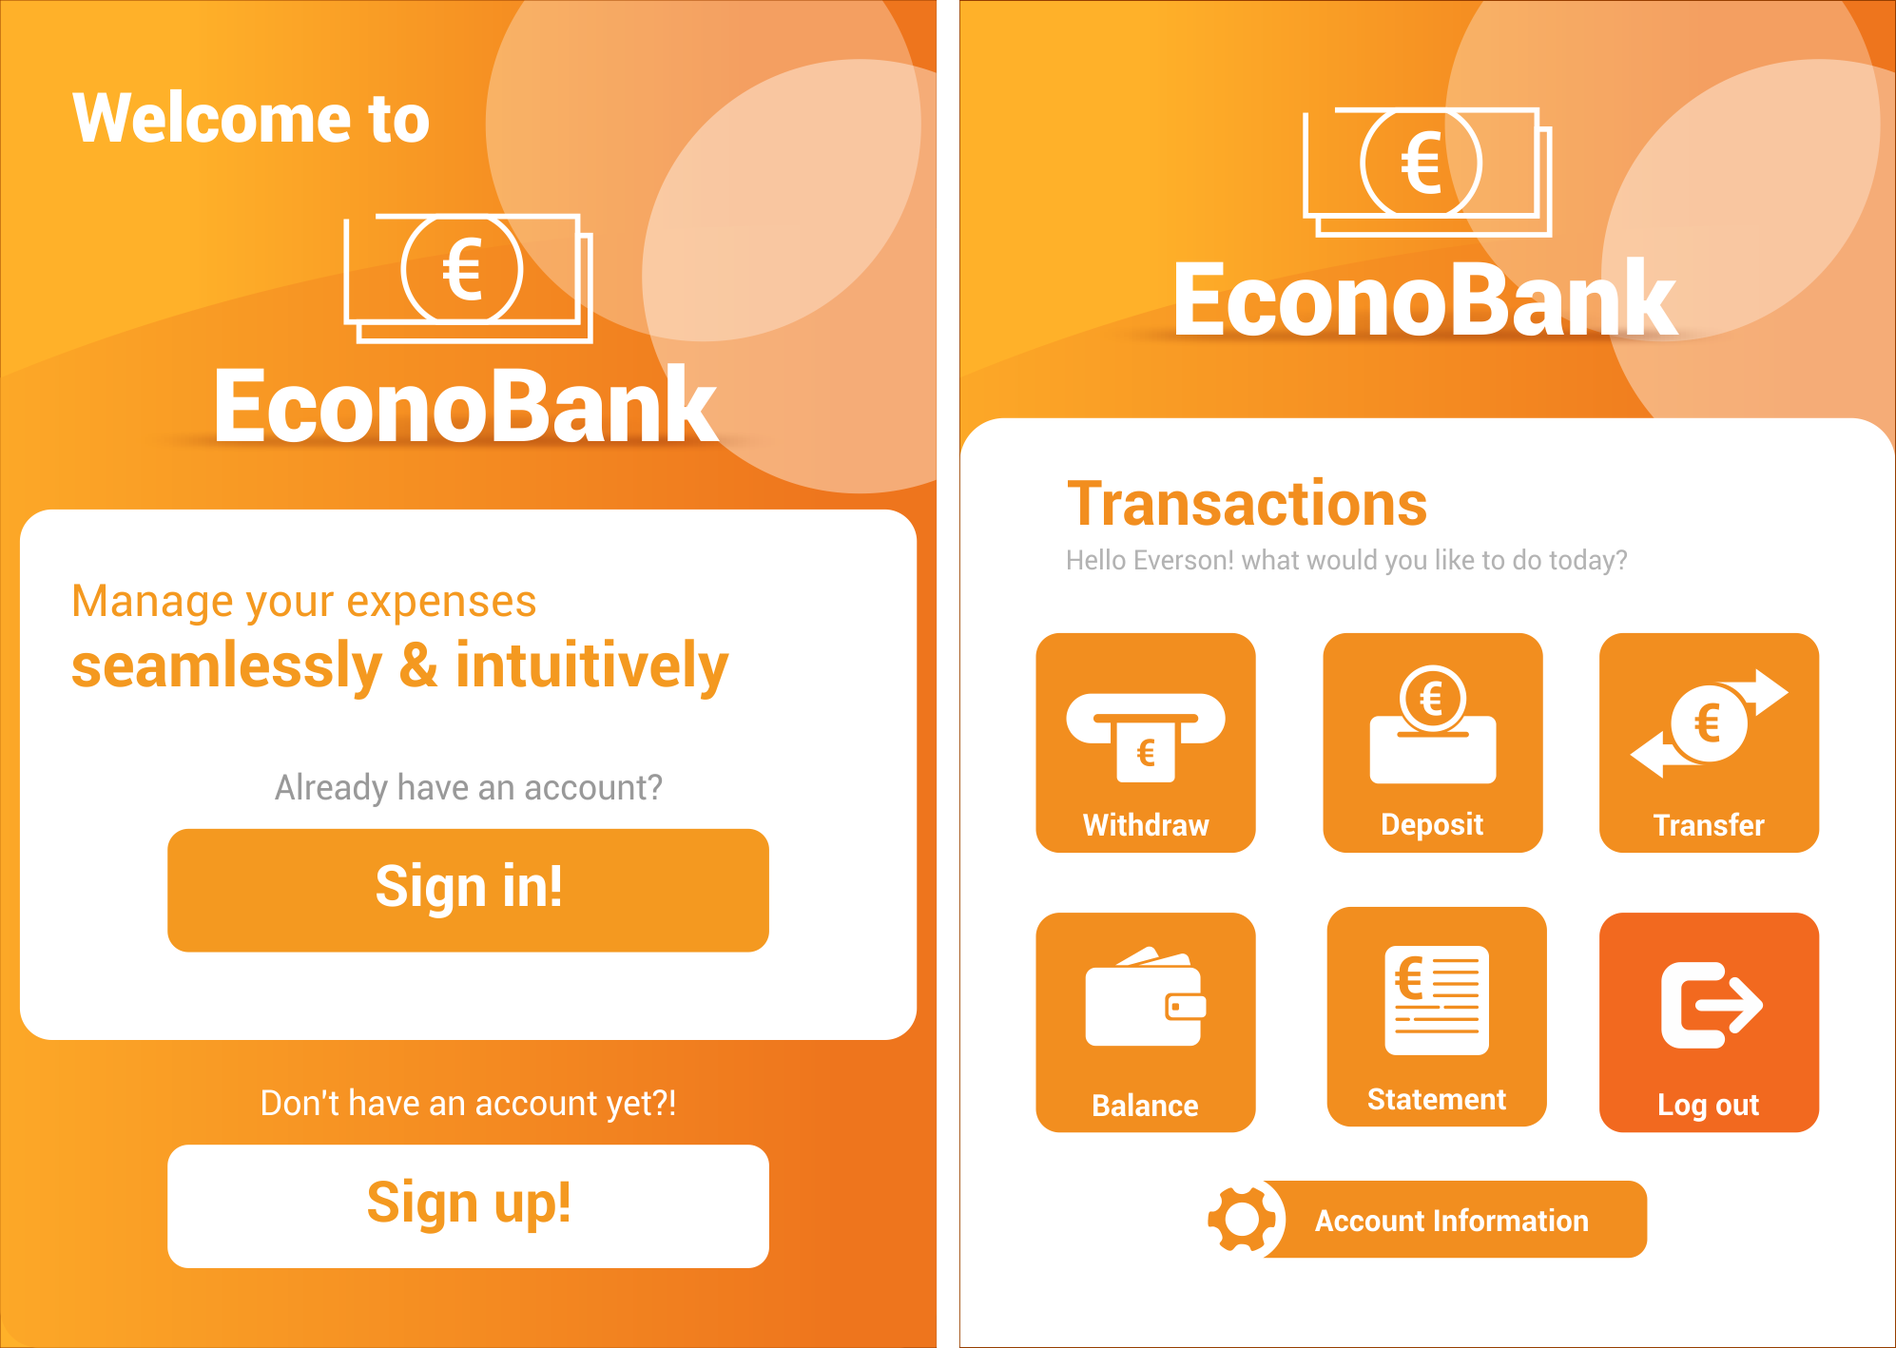
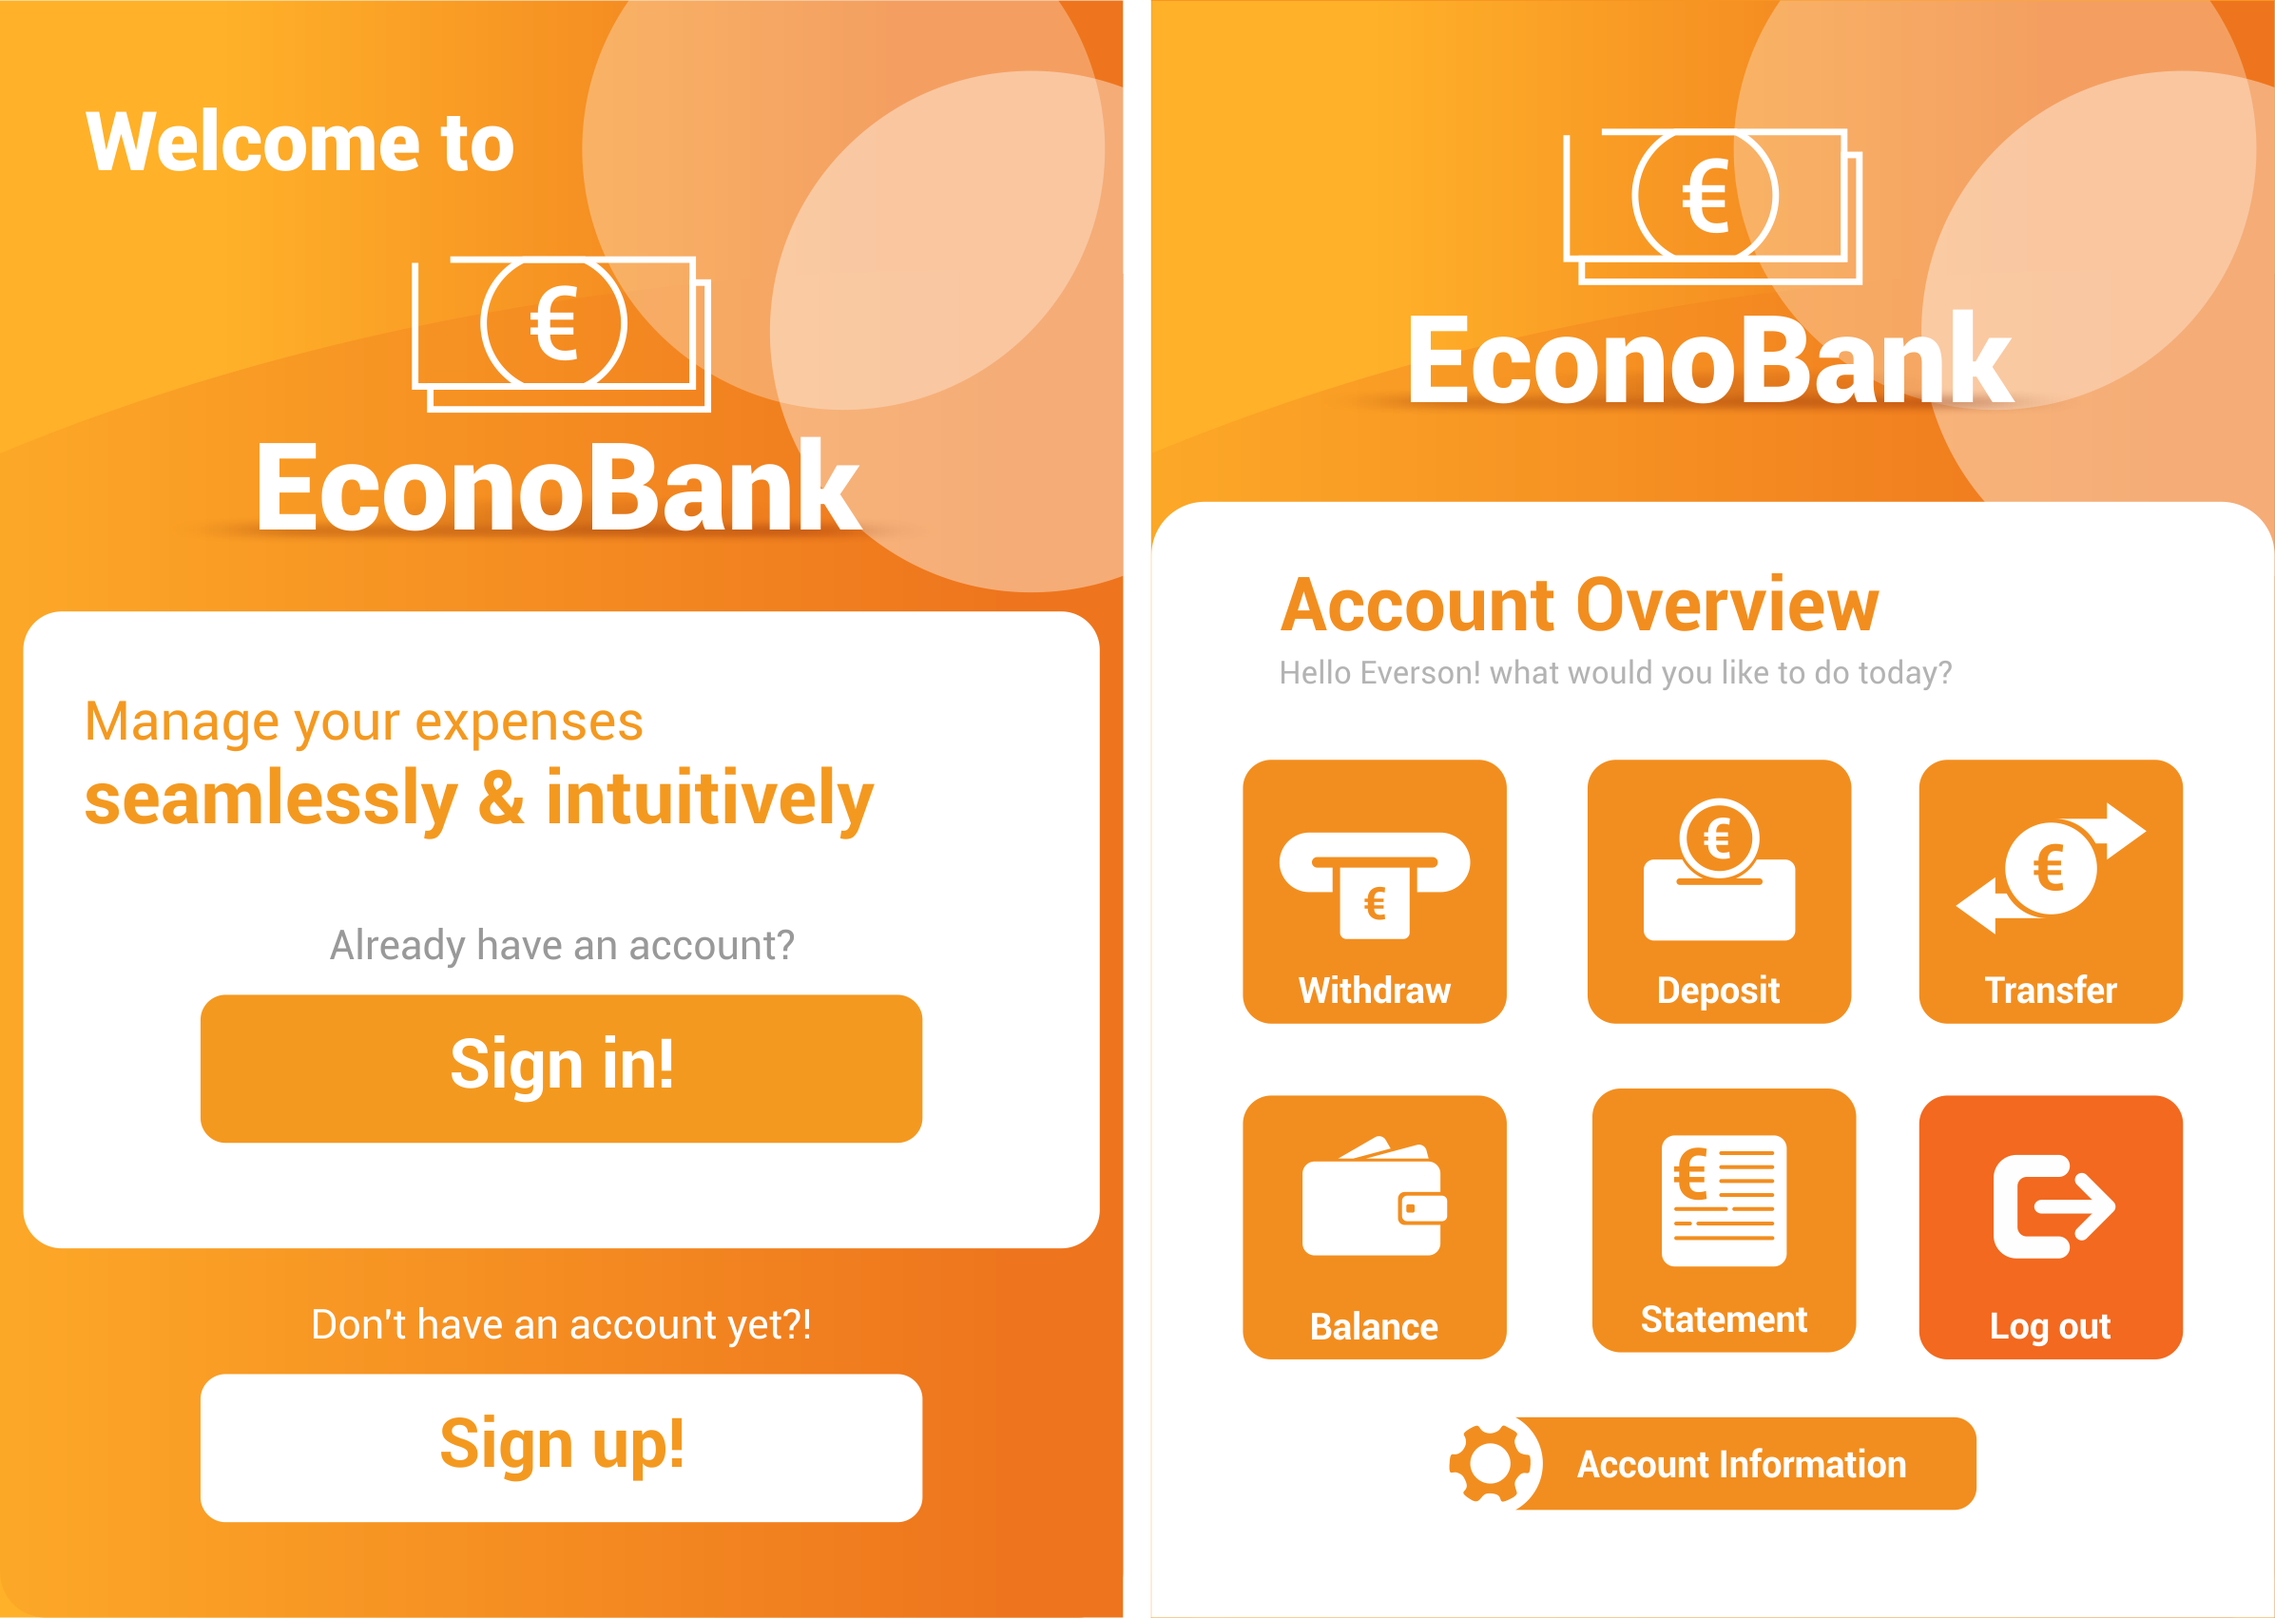
added ERD, App Structure file, pages png, finalizing sign in page

diff --git a/BankAppFXMaven/src/main/java/in/BankAppFXMaven/view/SignInScene.java b/BankAppFXMaven/src/main/java/in/BankAppFXMaven/view/SignInScene.java
@@ -317,12 +317,12 @@ public class SignInScene extends Application {
 			try {
 //				TransactionScene.getInstance().start(primaryStage);
 
-				//Sign-in Steps & checks:
-				//1 - get email from user input, check email format
-				//2 - check email & pass match in db
-				//3 - get all entities loaded
-				//4 - 
-				
+				// Sign-in Steps & checks:
+				// 1 - get email from user input, check email format
+				// 2 - check email & pass match in db
+				// 3 - get all entities loaded
+				// 4 -
+
 //				//Steps to be taken(email format check, db credentials check, populate login & loggedUser w/ db data and check lastlogin to enter name and surname
 				String email = emailInput.getText();
 				String pass = passwordInput.getText();
@@ -344,28 +344,31 @@ public class SignInScene extends Application {
 					if (userId != 0) {
 
 						loggedUser = LoggedUser.getInstance();
-						
-						Login login = new Login();
-						User user = new User();
-						BankAccount bankAccount = new BankAccount();
-						Statement statement = new Statement();
-						Transfer transfer = new Transfer();
+
 						Transaction transaction = new Transaction();
-						
+
 						java.sql.Timestamp ts = dbController.getLastLogin(userId);
-						
-						login = dbController.getLoginByUserId(userId);
-						user = dbController.getUserById(userId);
-						bankAccount = dbController.getUserBankAcc(userId);
-						statement = dbController.getStatement(userId);
-						//do transfer and transaction...
-						
+
+						Login login = dbController.getLoginByUserId(userId);
+						User user = dbController.getUserById(userId);
+						BankAccount bankAccount = dbController.getUserBankAcc(userId);
+						Statement statement = dbController.getStatement(userId);
+
+						// Reconsider what is necessary, transfer and transaction tables, get a pen and
+						// brainstorm
+						// how a transfer or transaction is done, when doing deposit, withdraw, how
+						// would this happen in the back-end?
+
+//						Transfer transfer = dbController.getTransfer(userId);
+//						Transaction transaction = dbController.getTransaction(bankAccount.getBankAccID());
+						// do transfer and transaction...
+
 						login.setLastLogin(ts);
 						loggedUser.setLogin(login);
 						loggedUser.setUser(user);
 						loggedUser.setBankAccount(bankAccount);
 						loggedUser.setStatement(statement);
-						loggedUser.setTransfer(transfer);
+//						loggedUser.setTransfer(transfer);
 						loggedUser.setTransaction(transaction);
 						// instead of setting login var by var, get all vars from login, create new
 						// login using all db data, the same for all other tables.
@@ -393,7 +396,7 @@ public class SignInScene extends Application {
 							// set loggedUser
 							loggedUser.setUser(dbController.getUserByEmail(emailInput.getText()));
 
-							TransactionScene.getInstance().start(primaryStage);
+							AccountOverviewScene.getInstance().start(primaryStage);
 						}
 
 					} else {

diff --git a/BankAppFXMaven/src/main/java/in/BankAppFXMaven/view/AccountOverviewScene.java b/BankAppFXMaven/src/main/java/in/BankAppFXMaven/view/AccountOverviewScene.java
@@ -32,7 +32,7 @@ import javafx.stage.Stage;
 import javafx.stage.WindowEvent;
 import javafx.util.Pair;
 
-public class TransactionScene extends Application {
+public class AccountOverviewScene extends Application {
 
 	private Stage primaryStage;
 
@@ -45,16 +45,16 @@ public class TransactionScene extends Application {
 	private User user;
 	private Login login;
 
-	private static TransactionScene transactionsSceneSingletonInstance;
+	private static AccountOverviewScene accOverviewSceneSingletonInstance;
 
-	public TransactionScene() {
+	public AccountOverviewScene() {
 	}
 
-	public static TransactionScene getInstance() {
-		if (transactionsSceneSingletonInstance == null) {
-			transactionsSceneSingletonInstance = new TransactionScene();
+	public static AccountOverviewScene getInstance() {
+		if (accOverviewSceneSingletonInstance == null) {
+			accOverviewSceneSingletonInstance = new AccountOverviewScene();
 		}
-		return transactionsSceneSingletonInstance;
+		return accOverviewSceneSingletonInstance;
 	}
 
 	@Override
@@ -127,7 +127,7 @@ public class TransactionScene extends Application {
 		whiteMiddlePane.setStyle("-fx-background-color: white; -fx-background-radius: 20 20 0 0;");
 
 		// Create the Text nodes
-		Text transactionsTxt = new Text("Transactions");
+		Text transactionsTxt = new Text("Account Overview");
 		transactionsTxt.setFill(Color.web("#f49820"));
 		transactionsTxt.setLayoutX(55.0);
 		transactionsTxt.setLayoutY(51.0);

diff --git a/BankAppFXMaven/src/main/java/in/BankAppFXMaven/view/BalanceScene.java b/BankAppFXMaven/src/main/java/in/BankAppFXMaven/view/BalanceScene.java
@@ -33,7 +33,7 @@ public class BalanceScene extends Application {
 
 	private Stage primaryStage;
 	private static BalanceScene balanceSceneSingletonInstance;
-	private static TransactionScene transactionSceneSingletonInstance = TransactionScene.getInstance();
+	private static AccountOverviewScene transactionSceneSingletonInstance = AccountOverviewScene.getInstance();
 //	private static DatabaseService db = DatabaseService.getInstance();
 	private Dialog<Void> dialog = new Dialog<>();
 	private static ArrayList<TransactionView> transactions = new ArrayList<TransactionView>();

diff --git a/BankAppFXMaven/src/main/java/in/BankAppFXMaven/view/AccInfoScene.java b/BankAppFXMaven/src/main/java/in/BankAppFXMaven/view/AccInfoScene.java
@@ -28,7 +28,7 @@ import javafx.stage.Stage;
 
 public class AccInfoScene extends Application {
 
-	private static TransactionScene transactionSceneSingletonInstance = TransactionScene.getInstance();
+	private static AccountOverviewScene transactionSceneSingletonInstance = AccountOverviewScene.getInstance();
 	private static AccInfoScene AccInfoSceneSingletonInstance;
 	private static DatabaseController dbController = DatabaseController.getInstance();
 	private Stage primaryStage;

diff --git a/BankAppFXMaven/src/main/java/in/BankAppFXMaven/view/TransferScene.java b/BankAppFXMaven/src/main/java/in/BankAppFXMaven/view/TransferScene.java
@@ -19,7 +19,7 @@ public class TransferScene extends Application {
 
 	private Stage primaryStage;
 	private static TransferScene transferSceneSingletonInstance;
-	private static TransactionScene transactionsSceneSingletonInstance = TransactionScene.getInstance();
+	private static AccountOverviewScene transactionsSceneSingletonInstance = AccountOverviewScene.getInstance();
 //	private static DatabaseService db = DatabaseService.getInstance();
 
 	private TransferScene() {

diff --git a/BankAppFXMaven/src/main/java/in/BankAppFXMaven/view/WithdrawScene.java b/BankAppFXMaven/src/main/java/in/BankAppFXMaven/view/WithdrawScene.java
@@ -19,7 +19,7 @@ public class WithdrawScene extends Application {
 
 	private Stage primaryStage;
 	private static WithdrawScene withdrawSceneSingletonInstance;
-	private static TransactionScene transactionsSceneSingletonInstance = TransactionScene.getInstance();
+	private static AccountOverviewScene transactionsSceneSingletonInstance = AccountOverviewScene.getInstance();
 //	private static DatabaseService db = DatabaseService.getInstance();
 
 	private WithdrawScene() {

diff --git a/BankAppFXMaven/src/main/java/in/BankAppFXMaven/view/DepositScene.java b/BankAppFXMaven/src/main/java/in/BankAppFXMaven/view/DepositScene.java
@@ -18,7 +18,7 @@ import javafx.stage.Stage;
 public class DepositScene extends Application {
 
 	private static DepositScene depositSceneSingletonInstance;
-	private static TransactionScene transactionSceneSingletonInstance = TransactionScene.getInstance();
+	private static AccountOverviewScene transactionSceneSingletonInstance = AccountOverviewScene.getInstance();
 //	private static DatabaseService db = DatabaseService.getInstance();
 	private Stage primaryStage;
 

diff --git a/BankAppFXMaven/src/main/java/in/BankAppFXMaven/model/Transaction.java b/BankAppFXMaven/src/main/java/in/BankAppFXMaven/model/Transaction.java
@@ -32,7 +32,7 @@ public class Transaction {
 		this.bankAccID = bankAccID;
 	}
 	/**
-	 * @return the transactionType
+	 * @return the transactionType (deposit, withdraw, transfer)
 	 */
 	public String getTransactionType() {
 		return transactionType;
